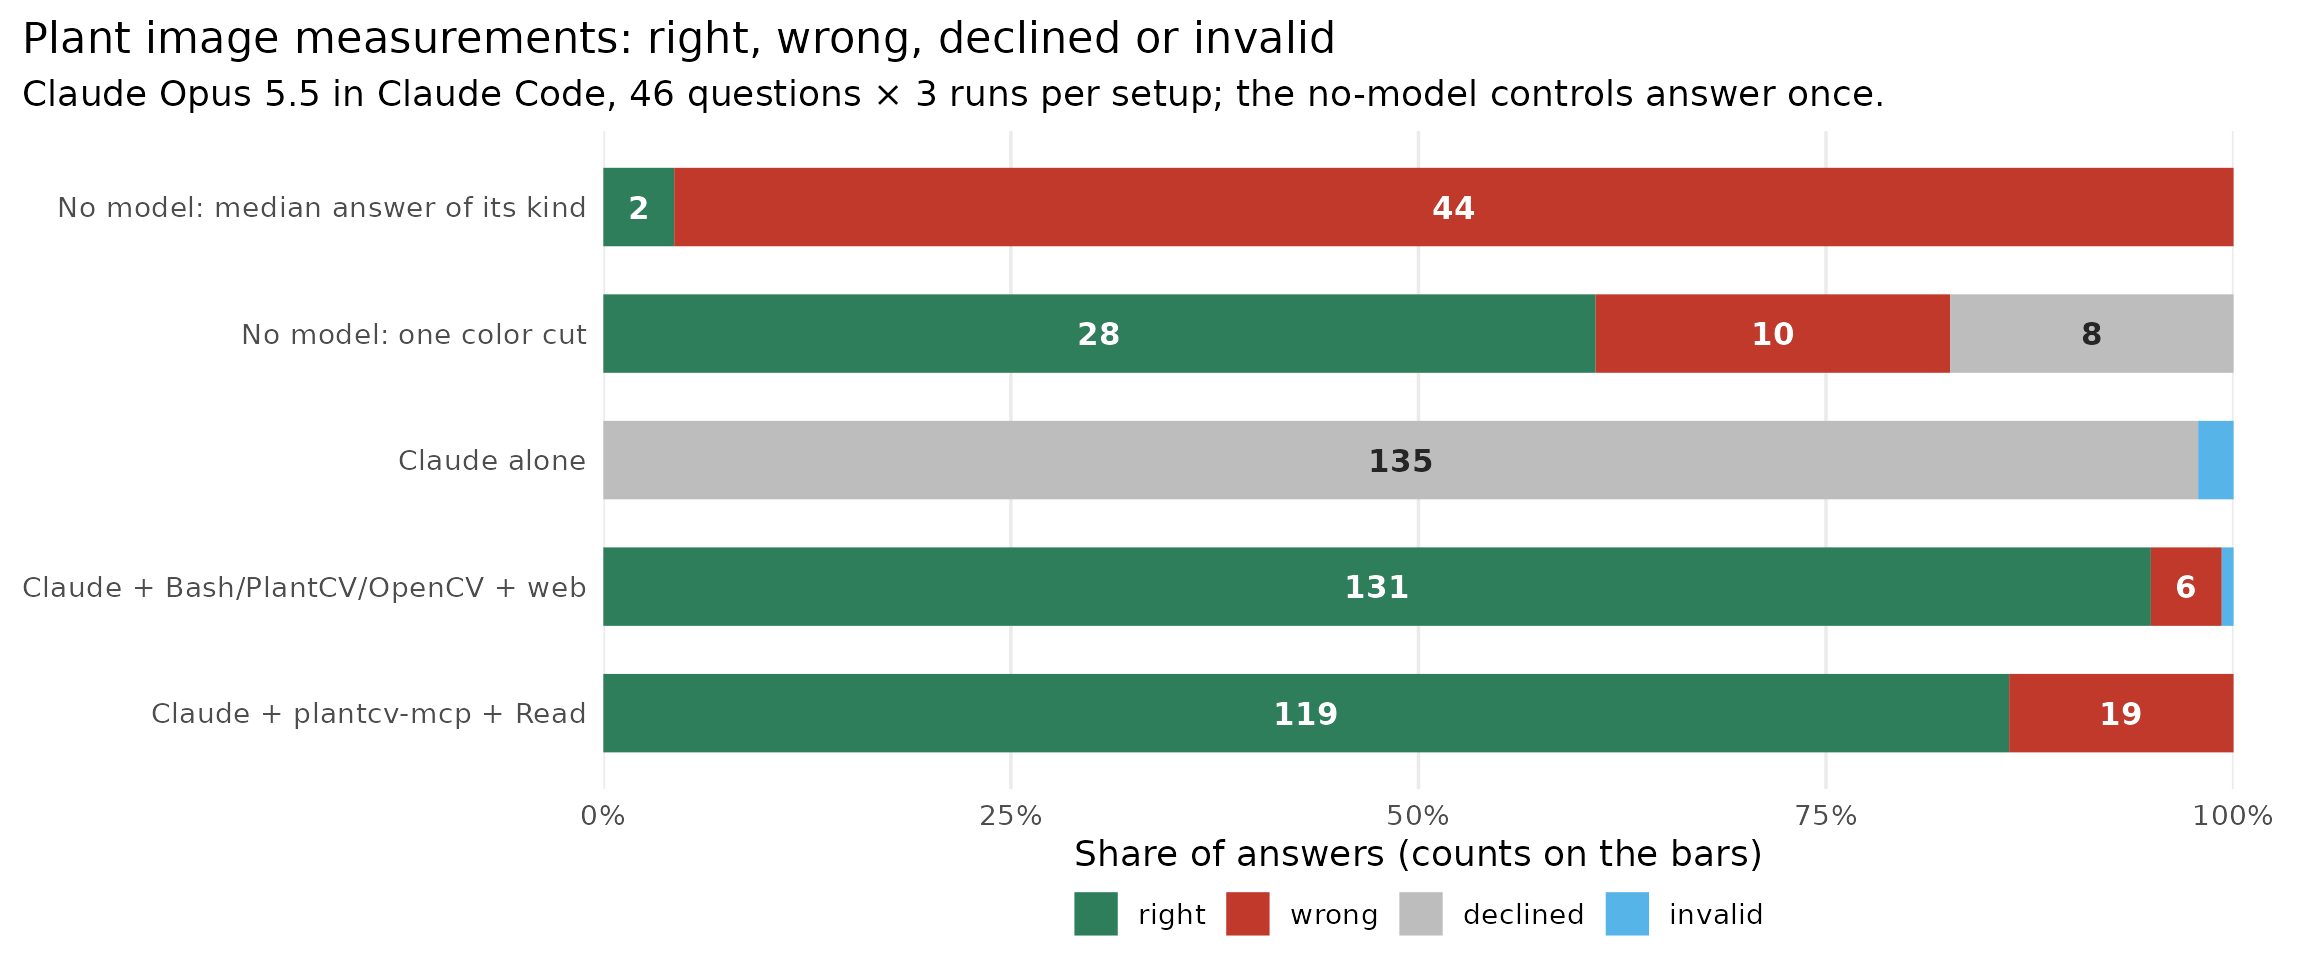
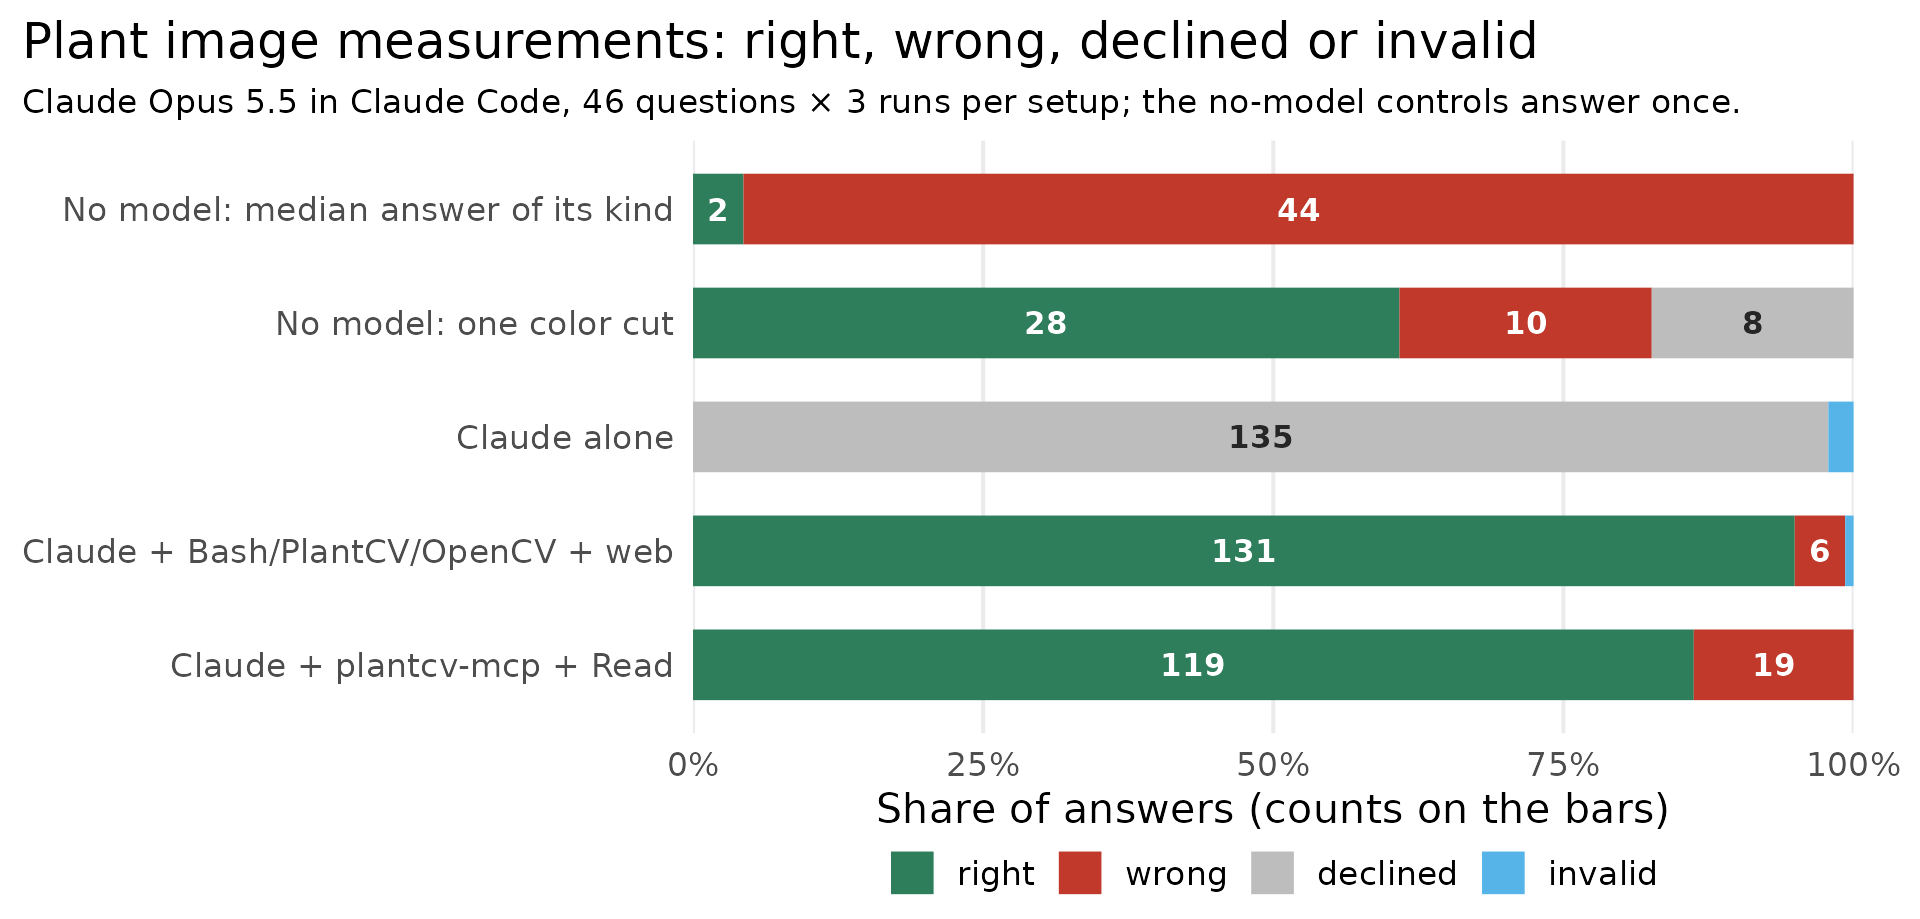
docs: README badge order, opener and table headers; agent_qa.png legible at 780 px
Badges run CI, PyPI, Python, License, DOI, Glama. The opener says what
the server lets AI agents do, without a bold tagline. Table headers are
sentence case, and the trait count is 17 throughout.

plot.R renders agent_qa.png at 9.6 x 4.6 in with base_size 15 (was 11.5
x 4.8, base 13), so the axis and legend text is about 13 px at the
README's 780 px. Same data, counts and colors; the other figures and
every .tsv re-render byte-identical.

diff --git a/README.md b/README.md
@@ -1,15 +1,15 @@
 # plantcv-mcp
 
-An MCP server that runs [PlantCV](https://plantcv.org) plant phenotyping for an AI agent. It
-returns trait numbers **and the segmentation overlay they were measured from**, and refuses to
-return numbers when the segmentation is degenerate.
+plantcv-mcp is an MCP server that lets AI agents run [PlantCV](https://plantcv.org) plant
+phenotyping. It returns trait numbers and the segmentation overlay they were measured from, and
+refuses to return numbers when the segmentation is degenerate.
 
-[![ci](https://github.com/musharna/plantcv-mcp/actions/workflows/ci.yml/badge.svg)](https://github.com/musharna/plantcv-mcp/actions/workflows/ci.yml)
+[![CI](https://github.com/musharna/plantcv-mcp/actions/workflows/ci.yml/badge.svg)](https://github.com/musharna/plantcv-mcp/actions/workflows/ci.yml)
 [![PyPI](https://img.shields.io/pypi/v/plantcv-mcp)](https://pypi.org/project/plantcv-mcp/)
-[![python](https://img.shields.io/pypi/pyversions/plantcv-mcp)](https://pypi.org/project/plantcv-mcp/)
-[![license](https://img.shields.io/pypi/l/plantcv-mcp)](https://github.com/musharna/plantcv-mcp/blob/master/LICENSE)
-[![Glama](https://glama.ai/mcp/servers/musharna/plantcv-mcp/badges/score.svg)](https://glama.ai/mcp/servers/musharna/plantcv-mcp)
+[![Python](https://img.shields.io/pypi/pyversions/plantcv-mcp)](https://pypi.org/project/plantcv-mcp/)
+[![License](https://img.shields.io/pypi/l/plantcv-mcp)](https://github.com/musharna/plantcv-mcp/blob/master/LICENSE)
 [![DOI](https://zenodo.org/badge/DOI/10.5281/zenodo.21713516.svg)](https://doi.org/10.5281/zenodo.21713516)
+[![Glama](https://glama.ai/mcp/servers/musharna/plantcv-mcp/badges/score.svg)](https://glama.ai/mcp/servers/musharna/plantcv-mcp)
 
 <!-- mcp-name: io.github.musharna/plantcv-mcp -->
 
@@ -25,7 +25,7 @@ background, `area=1007829`.
 ## Why you get the overlay
 
 Both images come from the same file and the same threshold method; only the channel differs.
-Without the picture, both runs return seventeen traits with correct units and believable
+Without the picture, both runs return 17 traits with correct units and believable
 magnitudes. The one on the right is measuring the wall behind the plants. Red marks the
 measured pixels; a cyan line traces the mask's edge.
 
@@ -39,7 +39,7 @@ Measured with PlantCV 4.11.3 on a synthetic render (first row:
 `tests/fixtures/multi_specimen.png`) and on photographs, each of these returns believable
 numbers with correct units:
 
-| failure                           | what you get without the overlay                            |
+| Failure                           | What you get without the overlay                            |
 | --------------------------------- | ----------------------------------------------------------- |
 | four-view render, whole-image ROI | 17 plausible traits describing four merged plants           |
 | plant clipped by the frame        | size traits that are silently lower bounds                  |
@@ -51,7 +51,7 @@ Not on these test images: the server did not make Claude measurably more accurat
 its own code (mostly OpenCV), and its own code was cheaper and faster.
 
 <p align="center">
-  <img src="https://raw.githubusercontent.com/musharna/plantcv-mcp/master/benchmarks/agent_qa/agent_qa.png" width="90%" alt="Stacked bar chart of right, wrong, declined and invalid answers, 46 questions times 3 runs per setup. Claude + plantcv-mcp + Read: 119 right, 19 wrong. Claude + Bash/PlantCV/OpenCV + web: 131 right, 6 wrong, 1 invalid. Claude alone: 135 declined, 3 invalid. No-model controls, one answer per question: one color cut 28 right, 10 wrong, 8 declined; median answer of its kind 2 right, 44 wrong.">
+  <img src="https://raw.githubusercontent.com/musharna/plantcv-mcp/master/benchmarks/agent_qa/agent_qa.png" width="780" alt="Stacked bar chart of right, wrong, declined and invalid answers, 46 questions times 3 runs per setup. Claude + plantcv-mcp + Read: 119 right, 19 wrong. Claude + Bash/PlantCV/OpenCV + web: 131 right, 6 wrong, 1 invalid. Claude alone: 135 declined, 3 invalid. No-model controls, one answer per question: one color cut 28 right, 10 wrong, 8 declined; median answer of its kind 2 right, 44 wrong.">
 </p>
 
 On 46 measurement questions about rendered plant images, three runs each, Claude Opus 5.5 was
@@ -98,7 +98,7 @@ the server keeps, to your imagery: `plantcv-mcp --root /data/phenotyping`. `--no
 
 ## Tools
 
-| tool                                          | returns                                                          |
+| Tool                                          | Returns                                                          |
 | --------------------------------------------- | ---------------------------------------------------------------- |
 | `suggest_segmentation`                        | contact sheets, and what each `object_type` would yield          |
 | `segment`                                     | overlay + diagnostics + warnings, **no traits**                  |
@@ -127,10 +127,10 @@ measured facts behind each tool:
 Each guard was added after a specific failure and names the next action. Blocking guards
 withhold numbers; advisories travel with them.
 
-- **Inverted mask** (`implausible_coverage`): the right-hand image above, seventeen believable
+- **Inverted mask** (`implausible_coverage`): the right-hand image above, 17 believable
   traits describing the wall.
 - **Nothing selected, or `fill_size` deleted the specimen** (`empty_mask`, `fill_erased_mask`):
-  PlantCV returns seventeen zeros with `in_bounds=True`.
+  PlantCV returns 17 zeros with `in_bounds=True`.
 - **Background texture** (`noisy_segmentation`): specks of chamber wall measured as one plant.
 - **Several plants in one mask** (`multi_specimen`): use `measure_regions()`.
 - **Wrong scale, wrong session kind, a file changed after segmentation**: refused, naming the
